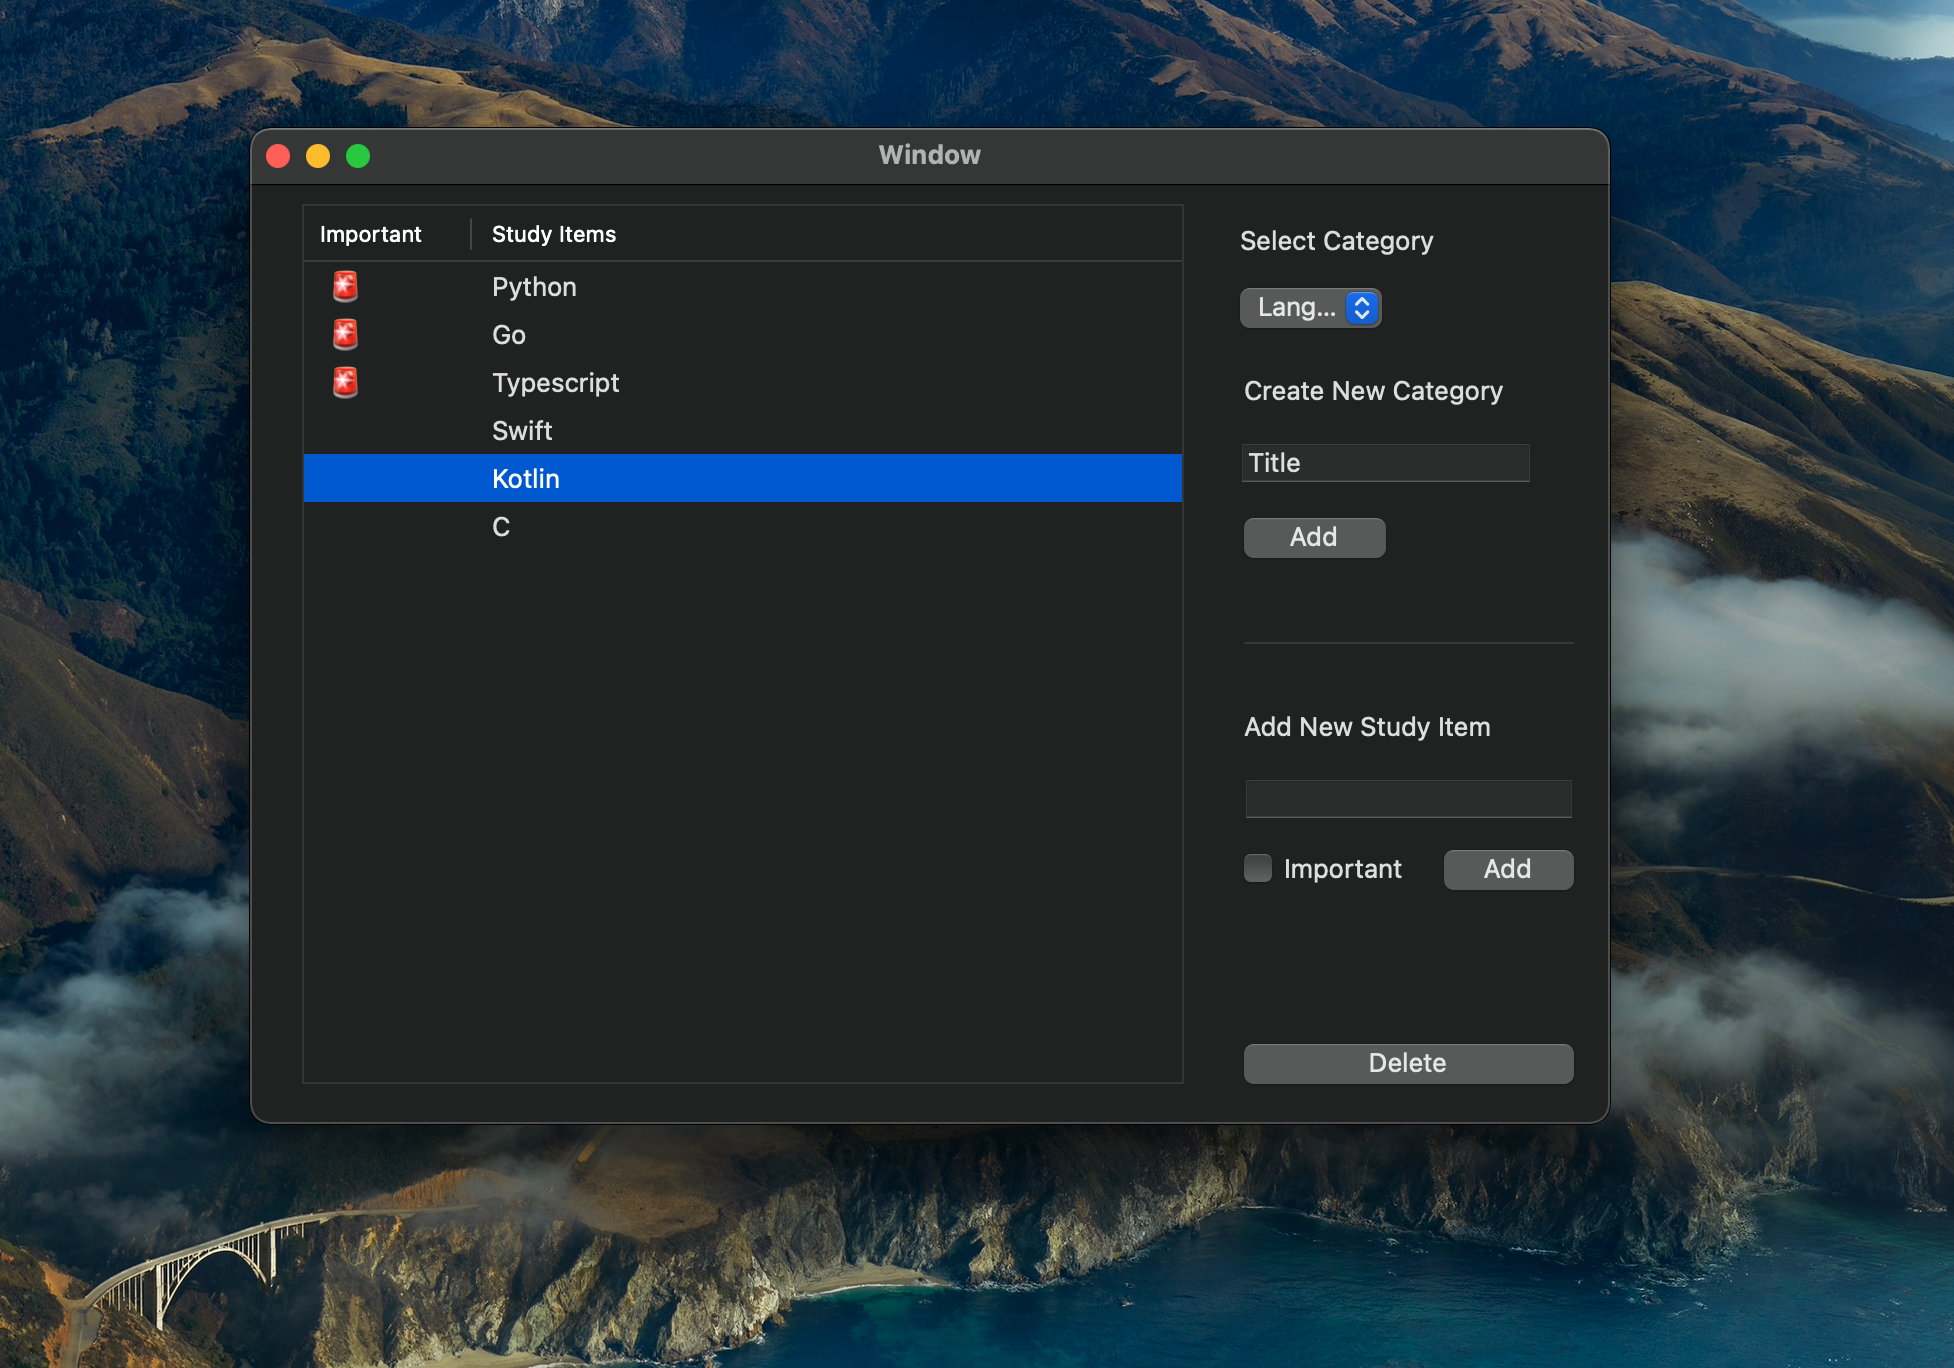
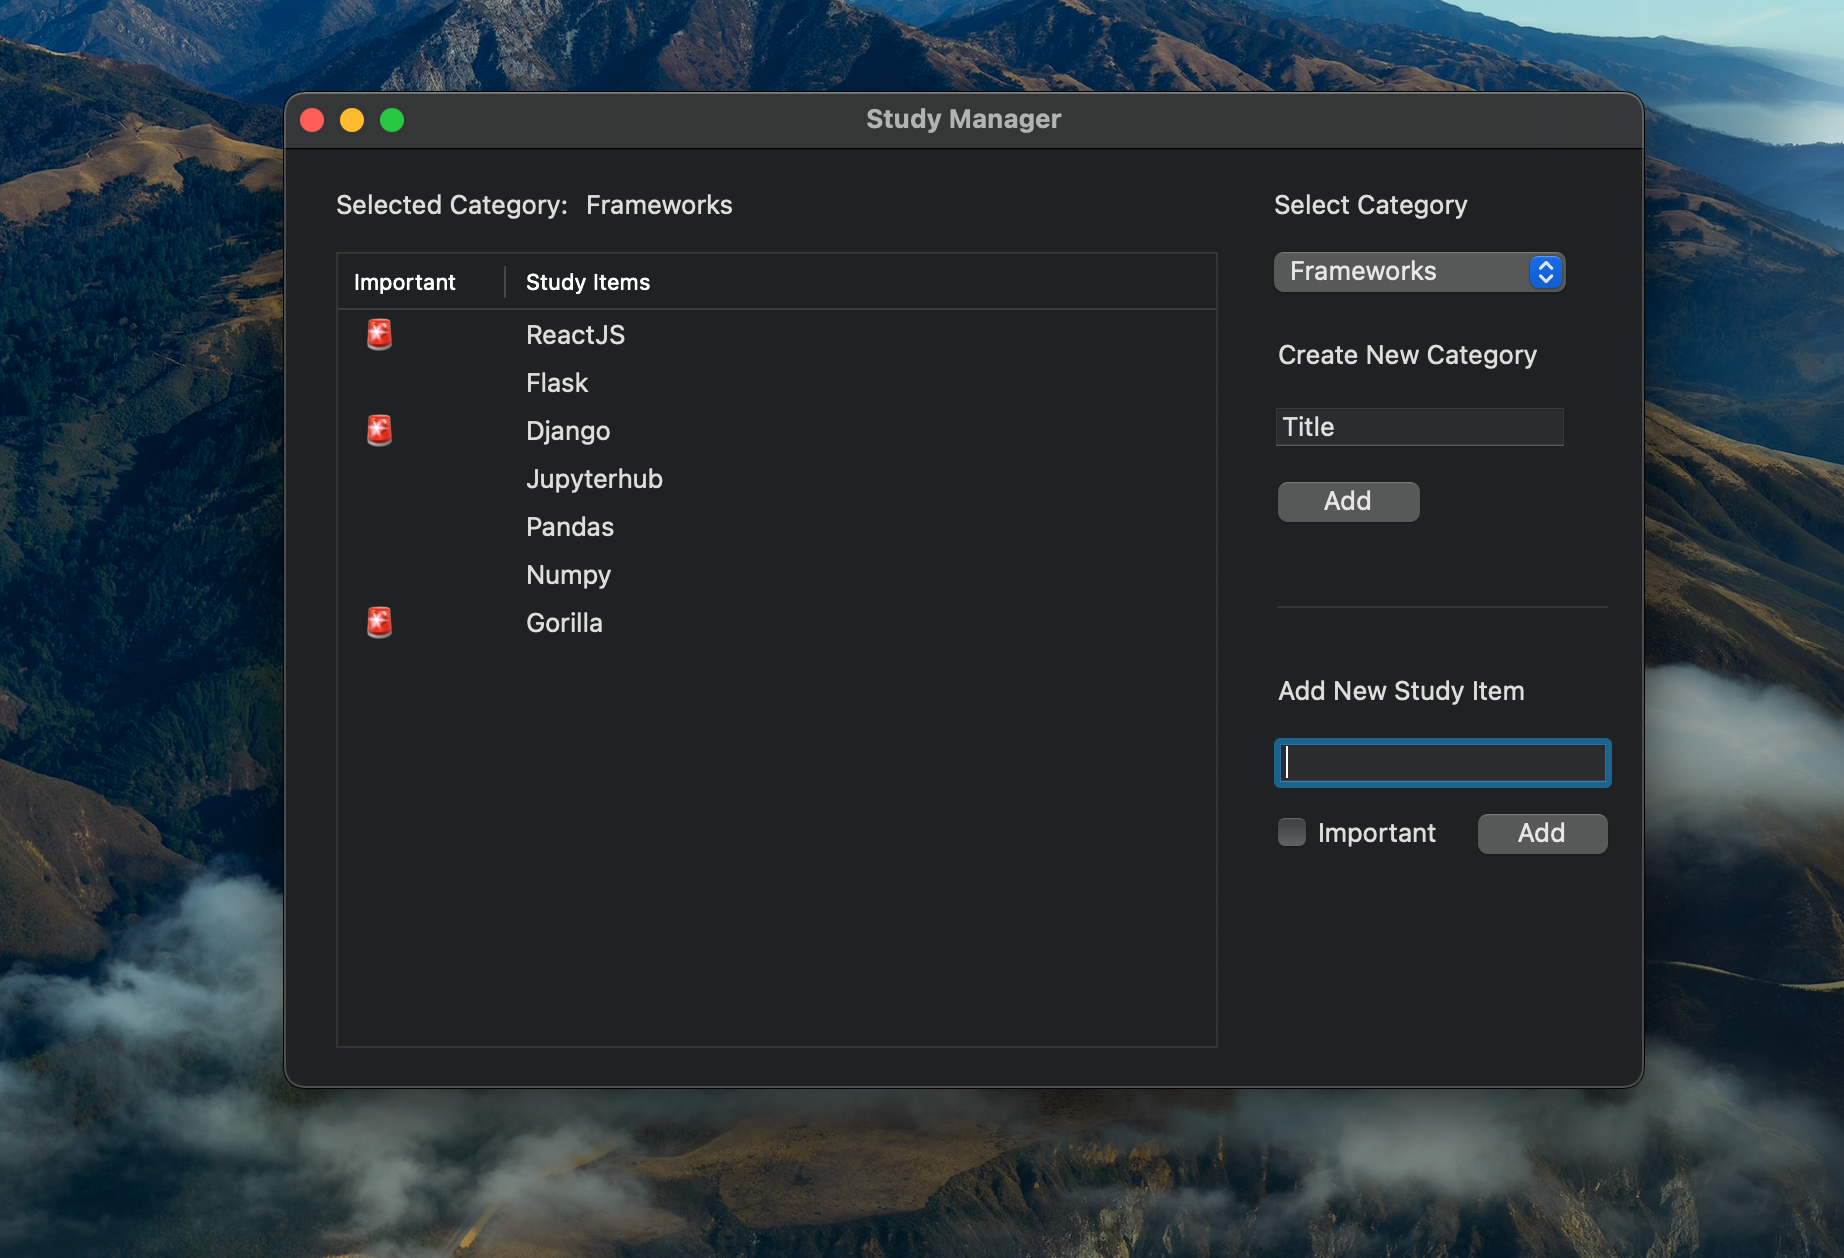
Categories should be selectable Fixes #1

diff --git a/StudyManager/ViewController.swift b/StudyManager/ViewController.swift
@@ -15,11 +15,12 @@ class ViewController: NSViewController, NSTableViewDataSource, NSTableViewDelega
     @IBOutlet weak var ImportantCheckBox: NSButton!
     @IBOutlet weak var TableView: NSTableView!
     @IBOutlet weak var DeleteButton: NSButton!
-
-    var categories: [Category] = []
-    var studyItems: [StudyItem] = []
-    var categorySelectValues: [String] = []
-    var selectedCategory: Category?
+    @IBOutlet weak var tableName: NSTextField!
+    
+    var categories : [Category] = []
+    var studyItems : [StudyItem] = []
+    var categorySelectValues : [String] = []
+    var selectedCategory : Category?
     
     override func viewDidLoad() {
         super.viewDidLoad()
@@ -32,11 +33,13 @@ class ViewController: NSViewController, NSTableViewDataSource, NSTableViewDelega
         getStudyItems()
         if selectedCategory == nil && categories.count > 0 {
             selectedCategory = categories[0]
+            let name = selectedCategory?.name
+            tableName.stringValue = name!
         }
     }
     
     @IBAction func CategoryAddButton(_ sender: Any) {
-        var newCategory: Category?
+        var newCategory : Category?
         if CategoryTextField.stringValue != "" {
             if let context = (NSApplication.shared.delegate as? AppDelegate)?.persistentContainer.viewContext {
                 newCategory = Category(context: context)
@@ -57,7 +60,10 @@ class ViewController: NSViewController, NSTableViewDataSource, NSTableViewDelega
             // Update the selected category
             self.selectedCategory = newCategory
         }
-
+        // Update table name
+        tableName.stringValue = (newCategory?.name)!
+        // Update the table
+        getStudyItems(selectedCategoryName: newCategory?.name)
     }
     
     
@@ -81,11 +87,10 @@ class ViewController: NSViewController, NSTableViewDataSource, NSTableViewDelega
         getStudyItems()
     }
     
-    func getCategories() {
-        // Get categories from Core Data
+    func getCategories() -> Void {
         if let context = (NSApplication.shared.delegate as? AppDelegate)?.persistentContainer.viewContext {
             do {
-                self.categories = try context.fetch(Category.fetchRequest())
+            self.categories = try context.fetch(Category.fetchRequest())
             } catch {
                 print("Error fetching Categories")
             }
@@ -97,17 +102,39 @@ class ViewController: NSViewController, NSTableViewDataSource, NSTableViewDelega
         CategorySelect.addItems(withTitles: categorySelectValues)
 
         TableView.reloadData()
+        return
     }
     
-    func getStudyItems() {
+    func getStudyItems(selectedCategoryName : String? = nil) -> Void {
+        let categoryName = selectedCategoryName != nil ? selectedCategoryName : selectedCategory?.name
+        if categoryName == nil {
+            return
+        }
+        // Get studyItems by parent category from Core Data
         if let context = (NSApplication.shared.delegate as? AppDelegate)?.persistentContainer.viewContext {
             do {
-                self.studyItems = try context.fetch(StudyItem.fetchRequest())
+                let fetchRequest = NSFetchRequest<StudyItem>(entityName: "StudyItem")
+                let categoryPredicate = NSPredicate(format: "parentCategory.name MATCHES %@", categoryName!)
+                fetchRequest.predicate = categoryPredicate
+                self.studyItems = try context.fetch(fetchRequest)
             } catch {
-                print("Error fetching StudyItems!")
+                print("Error fetching study items")
             }
         }
         TableView.reloadData()
+        return
+    }
+    
+    
+    @IBAction func categoryItemDidChange(_ sender: Any) {
+        let selectedCategoryTitle = CategorySelect.selectedItem?.title
+        for category in categories {
+            if category.name == selectedCategoryTitle {
+                self.selectedCategory = category
+            }
+        }
+        getStudyItems(selectedCategoryName : selectedCategoryTitle)
+        tableName.stringValue = selectedCategoryTitle!
     }
     
     // MARK: - TableView Datasource Methods
@@ -155,4 +182,5 @@ class ViewController: NSViewController, NSTableViewDataSource, NSTableViewDelega
     func tableViewSelectionDidChange(_ notification: Notification) {
         DeleteButton.isHidden = false
     }
+    
 }
